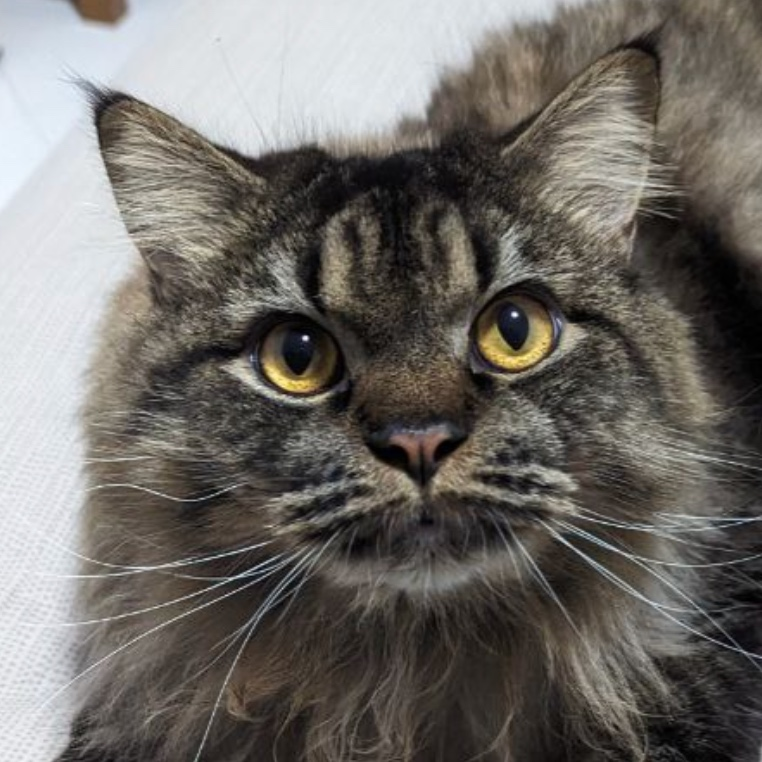
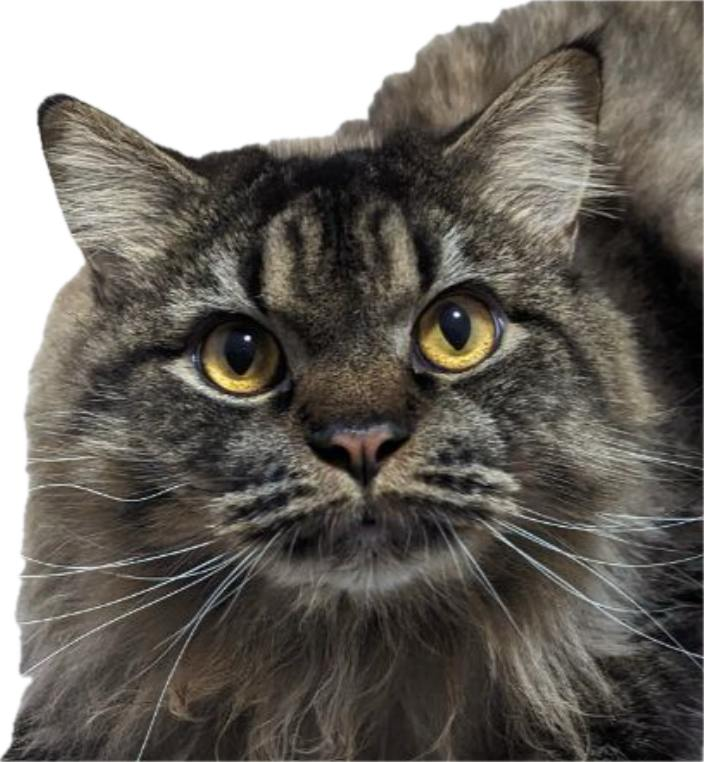
Revamp GUI

diff --git a/src/main/resources/css/main.css b/src/main/resources/css/main.css
@@ -1,54 +1,54 @@
 .root {
-    -fx-background-color: #F3F4F6; /* Light neutral background color for a clean and modern look */
+    -fx-background-color: #FFFFFF;
     -fx-font-family: "Segoe UI", "Arial", sans-serif; /* Use a modern font */
 }
 
 /* TextField */
 .text-field {
-    -fx-background-color: #FFFFFF; /* White background for input field */
-    -fx-border-radius: 8px; /* Slightly rounded corners for a modern feel */
-    -fx-background-radius: 8px;
+    -fx-background-color: #F3F3F3;
+    -fx-border-radius: 20px;
+    -fx-background-radius: 20px;
     -fx-padding: 10px; /* Add padding for breathing room */
-    -fx-font-size: 14px; /* Simple font */
+    -fx-font-size: 15px; /* Simple font */
     -fx-border-color: #CCCCCC; /* Light gray border */
     -fx-border-width: 1px;
 }
 
 .text-field:focused {
-    -fx-background-color: #FFFFFF; /* Keep the background white on focus */
-    -fx-border-color: #1A73E8; /* Subtle blue border when focused */
+    -fx-background-color: #F3F3F3;
+    -fx-border-color: #4761F5;
     -fx-border-width: 1.5px;
 }
 
 /* Button */
+/* Set the fill color for the SVG icons */
+.button .svg-path {
+    -fx-fill: #4761F5; /* Default color for SVG icon */
+}
+
+/* Change color on hover */
+.button:hover .svg-path {
+    -fx-fill: #3B55D9; /* Darker color on hover */
+}
+
+/* Change color on pressed */
+.button:pressed .svg-path {
+    -fx-fill: #2F44B2; /* Even darker color on press */
+}
+
+/* Button styling */
 .button {
-    -fx-background-color: #1A73E8; /* Solid, flat blue color */
-    -fx-text-fill: white;
-    -fx-font-size: 15px;
-    -fx-font-weight: bold;
-    -fx-border-radius: 8px;
-    -fx-background-radius: 8px;
-    -fx-padding: 10px 18px;
-    -fx-cursor: hand;
-    -fx-border-color: transparent;
+    -fx-background-color: transparent;
+    -fx-border-color: none;
+    -fx-padding: 5px;
 }
 
 .button:hover {
-    -fx-background-color: #1558B2; /* Darker blue on hover for subtle interactivity */
+    -fx-background-color: rgba(71, 97, 245, 0.1); /* Light background on hover */
 }
 
 .button:pressed {
-    -fx-background-color: #0B3D91; /* Even darker blue when pressed */
-}
-
-/* Dialog Box */
-.dialog-box {
-    -fx-background-color: #E0F7FA; /* Light, flat accent color for dialog box */
-    -fx-text-fill: #333333; /* Darker text for contrast */
-    -fx-padding: 12px 16px;
-    -fx-border-radius: 12px; /* Rounded corners */
-    -fx-background-radius: 12px;
-    -fx-border-color: transparent;
+    -fx-background-color: rgba(47, 68, 178, 0.2); /* Slightly darker background when pressed */
 }
 
 /* ScrollPane and ScrollBar */

diff --git a/src/main/resources/css/dialogbox.css b/src/main/resources/css/dialogbox.css
@@ -1,38 +1,32 @@
 /* Main label styling for the dialog bubbles (user messages) */
 .label {
-    -fx-background-color: #E3F2FD; /* Slightly muted light blue for a modern, clean look */
-    -fx-border-color: #B0BEC5; /* Light gray border for subtle contrast */
-    -fx-border-width: 1px;
-    -fx-background-radius: 12px; /* Smooth rounded corners */
-    -fx-border-radius: 12px;
-    -fx-padding: 12px 16px; /* Refined padding for better spacing */
-    -fx-text-fill: #2C3E50; /* Slightly darker text for better contrast */
-    -fx-font-size: 14px; /* Standardized font size */
-    -fx-font-family: "Segoe UI", sans-serif; /* Modern font for consistency */
-    -fx-effect: dropshadow(gaussian, rgba(0, 0, 0, 0.05), 6, 0, 0, 2); /* Soft shadow for depth */
+    -fx-background-color: #4761F5;
+    -fx-background-radius: 18px;
+    -fx-border-radius: 18px;
+    -fx-padding: 10px 14px;
+    -fx-text-fill: #F3F4FE;
+    -fx-font-size: 15px;
+    -fx-font-family: "Source Sans Pro", sans-serif;
+    -fx-font-weight: normal;
 }
 
 /* Reply dialog bubble */
 .reply-label {
-    -fx-background-color: #BBDEFB; /* Slightly darker shade for reply messages */
-    -fx-border-color: #90A4AE; /* Muted light gray border */
-    -fx-border-width: 1px;
-    -fx-background-radius: 12px; /* Consistent rounded corners */
-    -fx-border-radius: 12px;
-    -fx-padding: 12px 16px; /* Consistent padding */
-    -fx-text-fill: #2C3E50; /* Darker text for readability */
-    -fx-font-size: 14px;
-    -fx-font-family: "Segoe UI", sans-serif;
-    -fx-effect: dropshadow(gaussian, rgba(0, 0, 0, 0.05), 6, 0, 0, 2); /* Subtle shadow effect */
+    -fx-background-color: #F1F1F1;
+    -fx-background-radius: 18px;
+    -fx-border-radius: 18px;
+    -fx-padding: 10px 14px; /* Consistent padding */
+    -fx-text-fill: #000000;
+    -fx-font-size: 15px;
+    -fx-font-family: "Source Sans Pro", sans-serif;
+    -fx-font-weight: normal;
 }
 
 /* Avatar (Display Picture) */
 #displayPicture {
-    /* Clean shadow effect */
-    -fx-effect: dropshadow(gaussian, rgba(0, 0, 0, 0.1), 12, 0.5, 5, 5); /* Subtle shadow for depth */
     -fx-scale-x: 1.05;
     -fx-scale-y: 1.05;
-    -fx-border-radius: 50%; /* Circular image for a modern look */
+    -fx-border-radius: 100%; /* Circular image for a modern look */
 }
 
 /* General text alignment and padding for both user and reply bubbles */

diff --git a/src/main/java/dipsy/javafx/MainWindow.java b/src/main/java/dipsy/javafx/MainWindow.java
@@ -34,7 +34,7 @@ public class MainWindow extends AnchorPane {
 
     private Dipsy dipsy;
 
-    private Image userImage = new Image(this.getClass().getResourceAsStream("/images/PepeClown.jpeg"));
+    private Image userImage = new Image(this.getClass().getResourceAsStream("/images/Reagen.png"));
     private Image dipsyImage = new Image(this.getClass().getResourceAsStream("/images/Dipsy.jpeg"));
 
     @FXML
